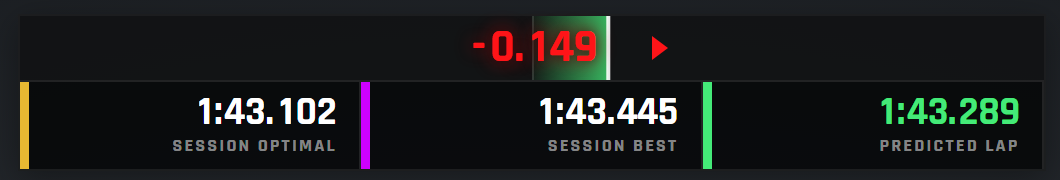
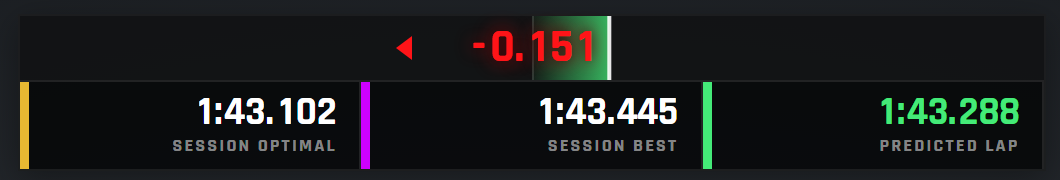
inverted chevrons

Changed region(s): [[0.4981, 0.1111, 0.6538, 0.4444], [0.3736, 0.2222, 0.4047, 0.3333], [0.934, 0.5833, 0.9651, 0.6667]]

diff --git a/betterdeltabar/betterdeltabar.css b/betterdeltabar/betterdeltabar.css
@@ -23,7 +23,8 @@
  *                 .bd-faster / .bd-slower (the overall sign), .bd-noref (no reference lap),
  *                 .bd-invalid, .bd-hasdriver, .bd-top-on (the top line has something to say);
  *                 .bd-pred-faster / .bd-pred-slower on the predicted cell
- *   options       .bd-compact; .bd-noarrows .bd-nooptimal .bd-nobest .bd-nolast .bd-nopred
+ *   options       .bd-compact; .bd-faster-left (the bar grows left for time gained, and the
+ *                 chevrons follow); .bd-noarrows .bd-nooptimal .bd-nobest .bd-nolast .bd-nopred
  *                 .bd-notrace .bd-noinvalid .bd-nodriver; .bd-narrow / .bd-wide;
  *                 .bd-num-overall / .bd-num-white (what colours the figure; the default is the
  *                 trend); .bd-bar-trend (the fill takes the trend's colour instead of the
@@ -327,7 +328,11 @@ body.hide-hud .ace-betterdeltabar {
     text-shadow: none;
 }
 
-/* chevrons: border triangles, faded out unless the trend points their way */
+/* chevrons: border triangles, faded out unless the trend points their way. They point the
+   way the END OF THE FILL is moving: towards the faster side while gaining, towards the
+   slower side while losing. The faster side is the right by default and the left under
+   .bd-faster-left (the option), so which chevron shows depends on both. The colour is the
+   trend's, whichever side it is on. */
 .ace-betterdeltabar .bd-arrow {
     width: 0;
     height: 0;
@@ -338,20 +343,53 @@ body.hide-hud .ace-betterdeltabar {
 }
 
 .ace-betterdeltabar .bd-arrow-l {
-    border-right: 0.5em solid #44ea78;
+    border-right: 0.5em solid #fff;
 }
 
 .ace-betterdeltabar .bd-arrow-r {
-    border-left: 0.5em solid #ff1418;
+    border-left: 0.5em solid #fff;
 }
 
-.ace-betterdeltabar.bd-gain .bd-arrow-l,
+.ace-betterdeltabar.bd-gain .bd-arrow-l {
+    border-right-color: #44ea78;
+}
+
+.ace-betterdeltabar.bd-gain .bd-arrow-r {
+    border-left-color: #44ea78;
+}
+
+.ace-betterdeltabar.bd-lose .bd-arrow-l {
+    border-right-color: #ff1418;
+}
+
 .ace-betterdeltabar.bd-lose .bd-arrow-r {
+    border-left-color: #ff1418;
+}
+
+/* faster side right: gaining points right, losing points left */
+.ace-betterdeltabar.bd-gain .bd-arrow-r,
+.ace-betterdeltabar.bd-lose .bd-arrow-l {
     opacity: 0.9;
 }
 
-.ace-betterdeltabar.bd-strong.bd-gain .bd-arrow-l,
-.ace-betterdeltabar.bd-strong.bd-lose .bd-arrow-r {
+.ace-betterdeltabar.bd-strong.bd-gain .bd-arrow-r,
+.ace-betterdeltabar.bd-strong.bd-lose .bd-arrow-l {
+    opacity: 1;
+}
+
+/* faster side left: the other way round (after the rules above, so these win) */
+.ace-betterdeltabar.bd-faster-left.bd-gain .bd-arrow-r,
+.ace-betterdeltabar.bd-faster-left.bd-lose .bd-arrow-l {
+    opacity: 0;
+}
+
+.ace-betterdeltabar.bd-faster-left.bd-gain .bd-arrow-l,
+.ace-betterdeltabar.bd-faster-left.bd-lose .bd-arrow-r {
+    opacity: 0.9;
+}
+
+.ace-betterdeltabar.bd-faster-left.bd-strong.bd-gain .bd-arrow-l,
+.ace-betterdeltabar.bd-faster-left.bd-strong.bd-lose .bd-arrow-r {
     opacity: 1;
 }
 
@@ -505,11 +543,12 @@ body.hide-hud .ace-betterdeltabar {
     height: 2.3em;
 }
 
+/* near-black: against a bright sky in game, 0.8 read as grey */
 .ace-betterdeltabar.bd-compact .bd-bar {
     bottom: auto;
     height: 0.8em;
     border-radius: 0.2em;
-    background: rgba(0, 0, 0, 0.8);
+    background: rgba(0, 0, 0, 0.94);
 }
 
 /* solid fills, in the sign's colour or the trend's */
@@ -536,7 +575,7 @@ body.hide-hud .ace-betterdeltabar {
 .ace-betterdeltabar.bd-compact .bd-delta {
     min-width: 0;
     padding: 0 0.35em;
-    background: rgba(0, 0, 0, 0.85);
+    background: rgba(0, 0, 0, 0.94);
     border-radius: 0.15em;
     font-size: 1.2em;
     line-height: 1.05em;

diff --git a/tests/widget/harness.html b/tests/widget/harness.html
@@ -169,14 +169,32 @@ window.ModelTiming = { best: "", ideal: "", last: "", invalid: false };
         drift(1500, -40);
         ok(has(root, "bd-gain"), "gaining at 40 ms/s (band 15)"); ok(!has(root, "bd-strong"), "not strong under 75 ms/s");
         ok(!has(root, "bd-flat") && !has(root, "bd-lose"));
-        eq(getComputedStyle(q(".bd-arrow-l")).opacity, "0.9", "left chevron shows");
+        eq(getComputedStyle(q(".bd-arrow-r")).opacity, "0.9", "gaining: the chevron points right, where the fill is heading");
+        eq(getComputedStyle(q(".bd-arrow-l")).opacity, "0", "and not left");
+        eq(getComputedStyle(q(".bd-arrow-r")).borderLeftColor, "rgb(68, 234, 120)", "in green");
         drift(1500, -600);
         ok(has(root, "bd-gain") && has(root, "bd-strong"), "strong at 600 ms/s");
+        eq(getComputedStyle(q(".bd-arrow-r")).opacity, "1", "brighter when strong");
         run(1500);
         ok(has(root, "bd-flat"), "steady reads flat"); ok(!has(root, "bd-strong"));
+        eq(getComputedStyle(q(".bd-arrow-r")).opacity, "0", "no chevron when flat");
         drift(1500, 40);
         ok(has(root, "bd-lose"), "losing"); ok(!has(root, "bd-gain"));
-        eq(getComputedStyle(q(".bd-arrow-r")).opacity, "0.9", "right chevron shows");
+        eq(getComputedStyle(q(".bd-arrow-l")).opacity, "0.9", "losing: the chevron points left, where the fill is heading");
+        eq(getComputedStyle(q(".bd-arrow-l")).borderRightColor, "rgb(255, 20, 24)", "in red");
+        eq(getComputedStyle(q(".bd-arrow-r")).opacity, "0");
+    });
+
+    t("with the faster side on the left the chevrons turn round with the bar", function () {
+        set("fasterSide", "left"); ok(has(root, "bd-faster-left"));
+        ok(has(root, "bd-lose"), "still losing");
+        eq(getComputedStyle(q(".bd-arrow-r")).opacity, "0.9", "losing points right now"); eq(getComputedStyle(q(".bd-arrow-l")).opacity, "0");
+        eq(getComputedStyle(q(".bd-arrow-r")).borderLeftColor, "rgb(255, 20, 24)", "red");
+        drift(1500, -600); ok(has(root, "bd-gain") && has(root, "bd-strong"));
+        eq(getComputedStyle(q(".bd-arrow-l")).opacity, "1", "gaining strongly points left"); eq(getComputedStyle(q(".bd-arrow-r")).opacity, "0");
+        eq(getComputedStyle(q(".bd-arrow-l")).borderRightColor, "rgb(68, 234, 120)", "green");
+        set("fasterSide", "right"); ok(!has(root, "bd-faster-left"));
+        eq(getComputedStyle(q(".bd-arrow-r")).opacity, "1", "and back");
     });
 
     t("hysteresis: a trend is left at half the band, not entered under it", function () {

diff --git a/betterdeltabar/betterdeltabar.js b/betterdeltabar/betterdeltabar.js
@@ -8,7 +8,8 @@
  * through every corner is green all the way round. This widget keeps the bar for the
  * overall delta and colours the NUMBER by the trend: green while you are gaining on the
  * reference right now, red while you are losing, white while nothing is changing, with a
- * chevron on the side the time is going.
+ * chevron pointing the way the end of the fill is moving: towards the faster side while
+ * gaining, towards the slower side while losing.
  *
  * Two layouts. "Full" is a broadcast-style block: a wide bar with the figure sitting on
  * it and the fill growing out from the centre behind it, a bright tick at the fill's end,
@@ -215,6 +216,8 @@ const BetterDeltaBar = (function () {
         predSlower: "bd-pred-slower",
         /** On the root: the layout, what the options hide, and the looks they choose. */
         compact: "bd-compact",
+        /** On the root: the bar grows left for time gained (the option); the chevrons follow it. */
+        fasterLeft: "bd-faster-left",
         noArrows: "bd-noarrows",
         noOptimal: "bd-nooptimal",
         noBest: "bd-nobest",
@@ -560,6 +563,7 @@ const BetterDeltaBar = (function () {
         state.driverOn = options[SETTING.driver] !== false;
 
         setClass(root, CLASS.compact, compact);
+        setClass(root, CLASS.fasterLeft, !state.fasterRight);
         setClass(root, CLASS.noArrows, options[SETTING.arrows] === false);
         setClass(root, CLASS.noOptimal, options[SETTING.optimal] === false);
         setClass(root, CLASS.noBest, options[SETTING.best] === false);

diff --git a/tests/test_app.py b/tests/test_app.py
@@ -23,7 +23,7 @@ def read(path):
 
 class Tests(AppTests):
     ROOT = ROOT
-    MIN_CASES = 24
+    MIN_CASES = 25
     HOT_PATH = ("// ---- rendering", "// ---- lifecycle")
 
 
@@ -62,7 +62,7 @@ class WidgetContractTests(unittest.TestCase):
 
     def test_every_class_the_script_writes_is_in_the_stylesheet(self):
         for cls in ("bd-gain", "bd-lose", "bd-flat", "bd-strong", "bd-faster", "bd-slower", "bd-noref", "bd-invalid",
-                    "bd-hasdriver", "bd-top-on", "bd-pred-faster", "bd-pred-slower", "bd-compact", "bd-noarrows", "bd-nooptimal",
+                    "bd-hasdriver", "bd-top-on", "bd-pred-faster", "bd-pred-slower", "bd-compact", "bd-faster-left", "bd-noarrows", "bd-nooptimal",
                     "bd-nobest", "bd-nolast", "bd-nopred", "bd-notrace", "bd-noinvalid", "bd-nodriver", "bd-narrow", "bd-wide",
                     "bd-num-overall", "bd-num-white", "bd-bar-trend", "bd-bg-light", "bd-bg-none"):
             self.assertIn("." + cls, self.css, cls)

diff --git a/README.md b/README.md
@@ -22,7 +22,7 @@ This one keeps the bar for the overall delta and colours the **number by the tre
 - **red** while you are losing to it,
 - **white** while nothing is changing,
 
-with a chevron on the side the time is going, brighter when it is going fast. One glance
+with a chevron pointing the way the end of the bar is moving, brighter when it is moving fast. One glance
 tells you both things: the bar says where the lap stands, the number says which way it is
 heading.
 
@@ -83,7 +83,7 @@ app drawer with its own switch and an **OPTIONS** button.
 |---|---|
 | **The bar** | The overall delta for the lap: it grows out from the centre, **right and green** when the lap is ahead of the reference, **left and red** when it is behind, the same way round as the game's own bar (*Faster side* turns it round). A bright tick marks the end of the fill. A tenth of a second is a tenth of the way to the edge by default (see *Bar range*). |
 | **The number** | The same delta as a figure, `-0.235` for time gained, `+0.235` for time lost. Its **colour is the trend**: is the number going down (green, you are gaining) or up (red, you are losing) over the last second? White means it is holding. |
-| **The chevrons** | Point the way the time is going. They brighten when the trend is strong. |
+| **The chevrons** | Point the way the end of the fill is moving: towards the faster side (right, by default) while you are gaining, towards the slower side while you are losing. They brighten when the trend is strong. |
 | **SESSION OPTIMAL** | Your best sectors of the session added up, with a gold tab. |
 | **SESSION BEST** | Your best lap of the session, with a purple tab. |
 | **PREDICTED LAP** | The lap time this pace ends in, green when it beats your best, red when it does not. |

diff --git a/docs/notes.md b/docs/notes.md
@@ -50,6 +50,8 @@ One trap found by the harness: a `section` spec and a value spec must not share 
 (the first version had a "layout" section and a "layout" choice, and the choice could not
 be set).
 
+The compact bar's black is 0.94 alpha: 0.8 read as mid grey against a bright sky in game.
+
 `npos` was not measured live before 0.1.0: the field is in the protobuf schema
 (`UICurrentCarState` field 113, `npos_perc` 112) and is range-checked at read time, so a
 value outside 0..1 leaves the trace empty rather than wrong. The first in-game session
@@ -97,10 +99,12 @@ exactly, for anyone who prefers it.
   state changed and writes `transform` on a handful of elements. Every write is guarded by
   a cache of the last value, so a steady delta costs nothing.
 - `var(--name, fallback)` is not supported by this Cohtml build; plain `var(--name)` only.
-- The chevrons are CSS border triangles. Borders render (the stock uses them everywhere);
-  a triangle from them is the one technique here the stock stylesheets do not use, and
-  the first in-game session is what proves it. If it does not draw, the fallback is a
-  small rotated square.
+- The chevrons are CSS border triangles, the one technique here the stock stylesheets do
+  not use. Proven in game on 2026-09-22 (compact layout, the tag following the fill, the
+  chevron drawn). They point the way the END OF THE FILL moves, which depends on the
+  "Faster side" option: the first version pointed green left whatever the side, which read
+  wrong against a bar growing right; now `.bd-faster-left` on the root turns them with the
+  bar, in the stylesheet alone.
 
 Full background in `ACEGameInternals/docs/gameface-notes.md`.
 
